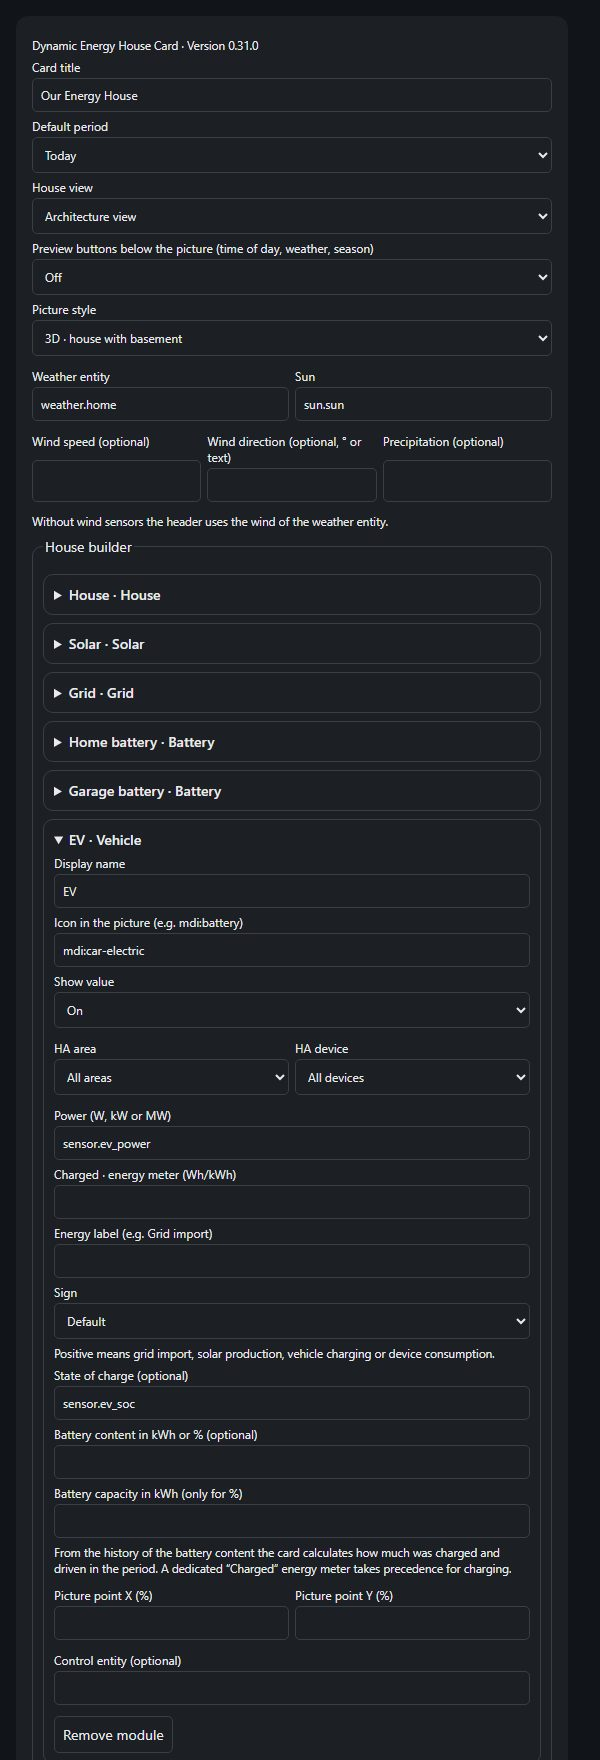
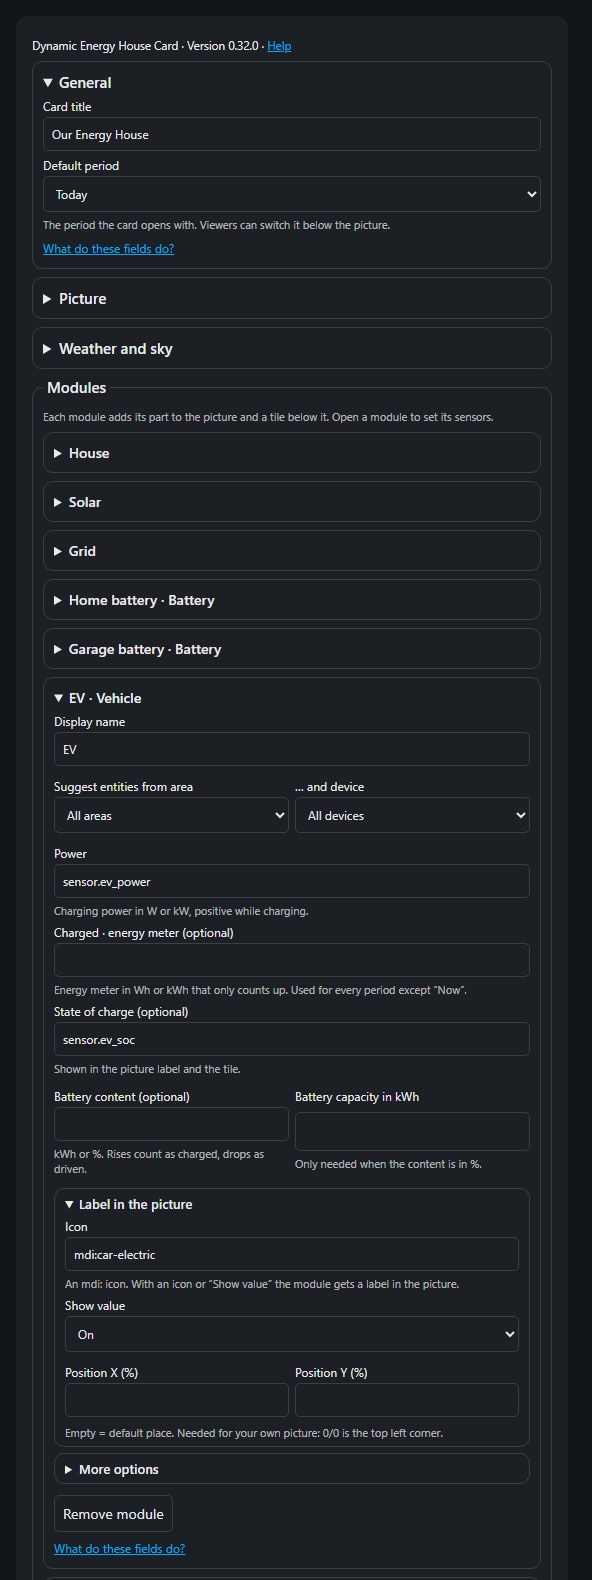
Editor help and clearer configuration (0.32.0)
- Help link in the card editor's menu (documentationURL) and at the top
  of the editor, plus "What do these fields do?" per section
- Hint under every field explaining what to enter and what it does
- Editor grouped into General, Picture, Weather and sky, Modules and
  Routes; label and rarely used options folded per module
- "House view" merged into "Picture style" (schematic floor plan is
  still stored as view: diagram); "Energy label" removed
- Route titles show From → To
- README: configuration reference for every field with its YAML key

Claude-Session: https://claude.ai/code/session_016kjt6bPp7oqnfqhW3oJgZ4

diff --git a/dist/dynamic-energy-house-card.js b/dist/dynamic-energy-house-card.js
@@ -1,5 +1,6 @@
 // Energy House Card · native Home Assistant dashboard component
-const ENERGY_HOUSE_VERSION = "0.31.0";
+const ENERGY_HOUSE_VERSION = "0.32.0";
+const DOCS_URL = "https://github.com/pfalzcraft/dynamic-energy-house-card";
 const TYPES = {house:"House",grid:"Grid",pv:"Solar",battery:"Battery",ev:"Vehicle",water:"Water",room:"Room",climate:"Grid CO₂",device:"Device"};
 const COLORS = {house:"#f4bd86",grid:"#a7bbf0",pv:"#f2ce72",battery:"#80dbc2",ev:"#86cfef",water:"#93d3f5",room:"#d9c6aa",climate:"#c1d2b1",device:"#e7a9d6"};
 const SCENE_ICONS={heatpump:"mdi:heat-pump-outline",washer:"mdi:washing-machine",dryer:"mdi:tumble-dryer"};
@@ -666,7 +667,7 @@ class EnergyHouse extends HTMLElement{
       if(n.kind==="climate")return `<button class="metric" data-node="${esc(n.id)}"><span>${esc(n.name||TYPES[n.kind])}</span><strong>${esc(primaryValue(n,s,history))}</strong><small>${s[n.entity]?.attributes.unit_of_measurement==="%"?"House consumption · "+periodNames[period]:""}</small>${s[n.entity]?.attributes.unit_of_measurement==="%"?`<small>Grid fossil <b>${esc(reading(s[n.entity]))}</b></small>`:""}${n.co2?`<small>CO₂ intensity <b>${esc(reading(s[n.co2]))}</b></small>`:""}</button>`;
       if(n.kind==="battery")return `<button class="metric" data-node="${esc(n.id)}"><span>${esc(n.name||TYPES[n.kind])}</span><strong>${esc(batteryLevel(n,s).label)}</strong><small>State of charge</small>${live?batteryLive(n,s,c.routes):batteryLines(n,history,period)}</button>`;
       const carPeriod=n.kind==="ev"&&!live,detail=branch(n,s).label.split(" · ")[0],primary=carPeriod?energyText(history[evCharged(n)]):primaryValue(n,s,history);
-      const caption=carPeriod?"Charged":n.waterMode==="flow"?`Flow · Ø ${FLOW_MINUTES} min`:waterPeriod(n,s)?periodNames[period]:n.display==="period"?(n.energyLabel?n.energyLabel+" · ":"")+periodNames[period]:detail;
+      const caption=carPeriod?"Charged":n.waterMode==="flow"?`Flow · Ø ${FLOW_MINUTES} min`:waterPeriod(n,s)?periodNames[period]:n.display==="period"?periodNames[period]:detail;
       const exportLine=n.display==="period"&&n.kind==="grid"&&n.exported?`<small>Export · ${periodNames[period]} <b>${energyText(history[n.exported])}</b></small>`:"";
       const own=live?watts(s[n.entity]):history[n.energy],whole=live?houseW:history[HOUSE];
       const known=c.nodes.filter(d=>d.kind==="device").map(d=>live?watts(s[d.entity]):history[d.energy]).filter(Number.isFinite);
@@ -741,61 +742,85 @@ class EnergyHouse extends HTMLElement{
   }
 }
 const editorCss=`
-:host{display:block;color:var(--primary-text-color,#243830);font:14px system-ui}fieldset,details{border:1px solid var(--divider-color,#b2c3b9);border-radius:10px;margin:8px 0;padding:10px}summary{cursor:pointer;font-weight:600}label{display:grid;gap:3px;font-size:12px;margin:6px 0}input,select,button{font:inherit;color:inherit;background:var(--card-background-color,#fff);padding:8px;border-radius:5px;border:1px solid var(--divider-color,#a7b5ac);max-width:100%;box-sizing:border-box}button{cursor:pointer;margin:5px 4px 0 0}.pair{display:grid;grid-template-columns:repeat(auto-fit,minmax(135px,1fr));gap:6px}.pair>label{min-width:0}label>input,label>select{width:100%}input[type=color]{height:40px;padding:3px}small{display:block;margin:5px 0}`;
+:host{display:block;color:var(--primary-text-color,#243830);font:14px system-ui}fieldset,details{border:1px solid var(--divider-color,#b2c3b9);border-radius:10px;margin:8px 0;padding:10px}summary{cursor:pointer;font-weight:600}label{display:grid;gap:3px;font-size:12px;margin:6px 0}input,select,button{font:inherit;color:inherit;background:var(--card-background-color,#fff);padding:8px;border-radius:5px;border:1px solid var(--divider-color,#a7b5ac);max-width:100%;box-sizing:border-box}button{cursor:pointer;margin:5px 4px 0 0}.pair{display:grid;grid-template-columns:repeat(auto-fit,minmax(135px,1fr));gap:6px}.pair>label{min-width:0}label>input,label>select{width:100%}input[type=color]{height:40px;padding:3px}small{display:block;margin:5px 0}.hint{opacity:.72;font-size:11px;margin:2px 0 0}details.section>summary{font-size:15px}details.sub{padding:6px 10px;margin:6px 0}details.sub>summary{font-weight:500;font-size:13px}legend{font-weight:600;font-size:15px;padding:0 4px}a{color:var(--primary-color,#03a9f4)}a.help{display:block;font-size:12px;margin:8px 0 2px}`;
 class HouseEditor extends HTMLElement{
-  constructor(){super();this.root=this.attachShadow({mode:"open"});this.root.addEventListener("change",e=>this.change(e));this.root.addEventListener("click",e=>this.click(e));this.open=new Set();}
+  constructor(){super();this.root=this.attachShadow({mode:"open"});this.root.addEventListener("change",e=>this.change(e));this.root.addEventListener("click",e=>this.click(e));this.open=new Set(["general"]);}
   setConfig(c){if(JSON.stringify(this.c)===JSON.stringify(c))return;this.c=structuredClone({...stub(),...c});this.draw()}
   set hass(h){const first=!this.h;this.h=h;if(first)this.draw()}
   save(){emit(this,"config-changed",{config:structuredClone(this.c)});this.draw()}
   draw(){if(!this.h||!this.c)return;
     const c=this.c,h=this.h;
     this.root.querySelectorAll("details").forEach(d=>d.open?this.open.add(d.dataset.key):this.open.delete(d.dataset.key));
-    const field=(label,key,val,list="")=>`<label>${label}<input data-key="${key}" value="${esc(val)}" ${list?`list="${esc(list)}"`:""}></label>`;
-    const choose=(label,key,val,choices)=>`<label>${label}<select data-key="${key}">${choices.map(([v,l])=>`<option value="${esc(v)}" ${v===val?"selected":""}>${esc(l)}</option>`).join("")}</select></label>`;
+    const hint=text=>`<small class="hint">${text}</small>`;
+    const field=(label,key,val,list="",help="")=>`<label>${label}<input data-key="${key}" value="${esc(val)}" ${list?`list="${esc(list)}"`:""}>${help?hint(help):""}</label>`;
+    const choose=(label,key,val,choices,help="")=>`<label>${label}<select data-key="${key}">${choices.map(([v,l])=>`<option value="${esc(v)}" ${v===val?"selected":""}>${esc(l)}</option>`).join("")}</select>${help?hint(help):""}</label>`;
     const list=(id,values)=>`<datalist id="${esc(id)}">${values.map(v=>`<option value="${esc(v)}"></option>`).join("")}</datalist>`;
-    const details=(key,title,content,attr="")=>`<details data-key="${esc(key)}" ${attr} ${this.open.has(key)?"open":""}><summary>${esc(title)}</summary>${content}</details>`;
+    const details=(key,title,content,attr="",sub=false)=>`<details data-key="${esc(key)}" ${sub?'class="sub"':""} ${attr} ${this.open.has(key)?"open":""}><summary>${esc(title)}</summary>${content}</details>`;
+    const section=(key,title,content)=>details(key,title,content,'class="section"');
+    const helpLink=anchor=>`<a class="help" href="${DOCS_URL}#${anchor}" target="_blank" rel="noreferrer">What do these fields do?</a>`;
     const states=Object.keys(h.states), areas=Object.values(h.areas||{}),devices=Object.values(h.devices||{}), ent=h.entities||{};
     const areaOf=id=>ent[id]?.area_id || h.devices?.[ent[id]?.device_id]?.area_id;
     const colors=obj=>[["positiveColor","Colour for positive power",1],["negativeColor","Colour for negative power",-1]].map(([key,title,sign])=>`<label>${title}<input type="color" data-key="${key}" value="${routeColor(obj,sign)}"></label>`).join("");
     const modules=c.nodes.map((n,i)=>{
       const devs=devices.filter(d=>!n.area||d.area_id===n.area||Object.values(ent).some(e=>e.device_id===d.id&&e.area_id===n.area));
       const ids=states.filter(id=>(!n.area||areaOf(id)===n.area)&&(!n.device||ent[id]?.device_id===n.device));
-      const electric=["pv","house","ev","grid","device"].includes(n.kind);
-      const lid="s"+i;
-      const html=field("Display name","name",n.name)+
-        field("Icon in the picture (e.g. mdi:battery)","icon",n.icon,"pinIcons")+choose("Show value","showState",n.showState??(n.pinText||n.showName==="yes"?"yes":"no"),[["no","Off"],["yes","On"]])+
-        '<div class="pair">'+choose("HA area","area",n.area||"",[["","All areas"],...areas.map(a=>[a.area_id,a.name])])+choose("HA device","device",n.device||"",[["","All devices"],...devs.map(d=>[d.id,d.name_by_user||d.name||d.id])])+'</div>'+
-        (n.kind==="battery"?
-          field("State of charge (%)","soc",n.soc,lid+"pct")+
-          field("Charged · energy meter (Wh/kWh)","charged",n.charged,lid+"kwh")+
-          field("Discharged · energy meter (Wh/kWh)","discharged",n.discharged,lid+"kwh")+
-          "<small>Meters must be in the HA long-term statistics (state_class total or total_increasing).</small>"+
-          list(lid+"pct",ids.filter(id=>h.states[id].attributes.unit_of_measurement==="%"))+
-          list(lid+"kwh",ids.filter(id=>["Wh","kWh","MWh"].includes(h.states[id].attributes.unit_of_measurement))):
-          (n.kind==="house"?"<small>House consumption is calculated: solar + grid import − export + battery discharge − battery charge − vehicle charging. Live battery values come from the routes with a power sensor that start or end at the battery.</small>":n.kind==="climate"?field("Fossil share of grid power (%)","entity",n.entity,lid+"pct")+field("CO₂ intensity (optional)","co2",n.co2,lid)+list(lid+"pct",ids.filter(id=>h.states[id].attributes.unit_of_measurement==="%"))+list(lid,ids)+"<small>Set up the “Electricity Maps” integration in HA (as for the energy dashboard). It provides the fossil share and the CO₂ intensity. The card shows how much of the house consumption in the period was low-carbon. This needs an import meter on the grid.</small>":field(electric?"Power (W, kW or MW)":"Reading","entity",n.entity,lid)+list(lid,ids)))+
-        (electric&&n.kind!=="house"?field(n.kind==="grid"?"Import · energy meter (Wh/kWh)":n.kind==="ev"?"Charged · energy meter (Wh/kWh)":n.kind==="device"?"Consumption · energy meter (Wh/kWh)":"Production · energy meter (Wh/kWh)","energy",n.energy,"energyIds")+(n.kind==="grid"?field("Export · energy meter (Wh/kWh)","exported",n.exported,"energyIds"):"")+field("Energy label (e.g. Grid import)","energyLabel",n.energyLabel):"")+
-        (electric&&n.kind!=="house"?choose("Sign","invert",n.invert?"yes":"no",[["no","Default"],["yes","Invert"]])+"<small>Positive means grid import, solar production, vehicle charging or device consumption.</small>"+(n.kind==="device"?"<small>Devices are part of the house consumption and are not used to calculate it.</small>":""):"")+
-        (n.kind==="ev"?field("State of charge (optional)","soc",n.soc,lid)+field("Battery content in kWh or % (optional)","content",n.content,lid)+field("Battery capacity in kWh (only for %)","capacity",n.capacity)+"<small>From the history of the battery content the card calculates how much was charged and driven in the period. A dedicated “Charged” energy meter takes precedence for charging.</small>":"")+
-        (n.kind==="device"?choose("In the “House with basement” picture","scene",n.scene||"",[["","Label only"],["heatpump","Show as heat pump"],["washer","Washing machine (basement)"],["dryer","Dryer (basement)"]]):"")+
-        (n.kind==="water"?choose("Water display","waterMode",n.waterMode||"",[["","Automatic"],["period","Consumption in the period"],["live","Sensor value"]])+choose("Consumption unit","waterUnit",n.waterUnit||"m³",[["m³","m³"],["L","Litres"]]):"")+
-        (n.kind==="room"?choose("Floor","floor",n.floor||"EG",[["UG","Basement"],["EG","Ground floor"],["OG","Upper floor"],["DG","Attic"],...(n.floor&&!["UG","EG","OG","DG"].includes(n.floor)?[[n.floor,n.floor]]:[])])+
+      const electric=["pv","ev","grid","device"].includes(n.kind);
+      const lid="s"+i,pct=list(lid+"pct",ids.filter(id=>h.states[id].attributes.unit_of_measurement==="%")),kwh=list(lid+"kwh",ids.filter(id=>["Wh","kWh","MWh"].includes(h.states[id].attributes.unit_of_measurement)));
+      const meter=(label,key)=>field(label,key,n[key],lid+"kwh","Energy meter in Wh or kWh that only counts up. Used for every period except “Now”.");
+      const filter=n.kind==="house"?"":'<div class="pair">'+choose("Suggest entities from area","area",n.area||"",[["","All areas"],...areas.map(a=>[a.area_id,a.name])])+choose("… and device","device",n.device||"",[["","All devices"],...devs.map(d=>[d.id,d.name_by_user||d.name||d.id])])+"</div>";
+      const readings=
+        n.kind==="house"?hint("No sensor needed. House consumption = solar + grid import − export + battery discharge − battery charge − vehicle charging. The tile shows how much of it no device explains (“Unassigned”)."):
+        n.kind==="battery"?field("State of charge","soc",n.soc,lid+"pct","Sensor in %.")+meter("Charged · energy meter","charged")+meter("Discharged · energy meter","discharged")+hint("Live charging power comes from the routes that start or end at this battery.")+pct+kwh:
+        n.kind==="climate"?field("Fossil share of grid power","entity",n.entity,lid+"pct","Sensor in % from the “Electricity Maps” integration (as in the HA energy dashboard).")+field("CO₂ intensity (optional)","co2",n.co2,lid,"Shown as an extra line in the tile.")+hint("Shows how much of the house consumption was low-carbon. Needs the import meter on the grid module.")+pct+list(lid,ids):
+        n.kind==="room"?choose("Floor","floor",n.floor||"EG",[["UG","Basement"],["EG","Ground floor"],["OG","Upper floor"],["DG","Attic"],...(n.floor&&!["UG","EG","OG","DG"].includes(n.floor)?[[n.floor,n.floor]]:[])],"Places the room in the picture and in the schematic floor plan.")+
           (n.entities||[]).map((id,j)=>`<div class="pair"><label>Entity or group<input data-ent="${j}" value="${esc(id)}" list="${lid}room"></label><button data-delent="${j}">Remove</button></div>`).join("")+
-          '<button data-addent>+ Entity</button><small>Light and cover groups, lights, switches, climate or sensors. The card shows how many lights are on, the average cover position and temperatures. Tap the room to switch them.</small>'+
+          '<button data-addent>+ Entity</button>'+hint("Lights, covers, switches, climate or sensors, or groups of them. The label shows lights on, average cover position and temperatures. Tapping the room dot switches its lights and covers.")+
           // Groups often have no area, so they are offered in every room.
-          list(lid+"room",states.filter(id=>/^(light|cover|group|switch|fan|climate|sensor|input_boolean)\./.test(id)&&(!n.area||!areaOf(id)||areaOf(id)===n.area))):"")+
-        '<div class="pair">'+field("Picture point X (%)","x",n.x)+field("Picture point Y (%)","y",n.y)+'</div>'+
-        field("Control entity (optional)","control",n.control,"controls")+'<button data-delete>Remove module</button>';
-      return details(n.id,(n.name||TYPES[n.kind])+" · "+TYPES[n.kind],html,`data-index="${i}"`);
+          list(lid+"room",states.filter(id=>/^(light|cover|group|switch|fan|climate|sensor|input_boolean)\./.test(id)&&(!n.area||!areaOf(id)||areaOf(id)===n.area))):
+        n.kind==="water"?field("Water meter or flow sensor","entity",n.entity,lid,"A meter (m³ or L, counting up) gives the consumption per period, a flow sensor the current flow.")+list(lid,ids)+
+          '<div class="pair">'+choose("Show","waterMode",n.waterMode||"",[["","Automatic"],["period","Consumption in the period"],["live","Sensor value"]])+choose("Unit","waterUnit",n.waterUnit||"m³",[["m³","m³"],["L","Litres"]])+"</div>":
+        field("Power","entity",n.entity,lid,{grid:"W or kW, positive for import and negative for export.",pv:"Production in W or kW.",ev:"Charging power in W or kW, positive while charging.",device:"Consumption in W or kW."}[n.kind])+list(lid,ids)+
+          meter({grid:"Import · energy meter",pv:"Production · energy meter",ev:"Charged · energy meter (optional)",device:"Consumption · energy meter (optional)"}[n.kind],"energy")+
+          (n.kind==="grid"?meter("Export · energy meter","exported"):"")+
+          (n.kind==="ev"?field("State of charge (optional)","soc",n.soc,lid,"Shown in the picture label and the tile.")+'<div class="pair">'+field("Battery content (optional)","content",n.content,lid,"kWh or %. Rises count as charged, drops as driven.")+field("Battery capacity in kWh","capacity",n.capacity,"","Only needed when the content is in %.")+"</div>":"")+
+          (n.kind==="device"?choose("Show in the picture","scene",n.scene||"",[["","Label only"],["heatpump","Heat pump"],["washer","Washing machine (basement)"],["dryer","Dryer (basement)"]],"Draws the device in the 3D house with basement.")+hint("Devices are part of the house consumption and are not used to calculate it."):"")+kwh;
+      const label=field("Icon","icon",n.icon,"pinIcons","An mdi: icon. With an icon or “Show value” the module gets a label in the picture.")+
+        choose("Show value","showState",n.showState??(n.pinText||n.showName==="yes"?"yes":"no"),[["no","Off"],["yes","On"]])+
+        '<div class="pair">'+field("Position X (%)","x",n.x)+field("Position Y (%)","y",n.y)+"</div>"+hint("Empty = default place. Needed for your own picture: 0/0 is the top left corner.");
+      const advanced=(electric?choose("Sign","invert",n.invert?"yes":"no",[["no","As measured"],["yes","Invert"]],"Use “Invert” when your sensor reports the opposite direction."):"")+
+        field("Control entity (optional)","control",n.control,"controls","A select, input_select, switch, script or button. Its options appear in the tile; select options are sent only after a second tap.");
+      const html=field("Display name","name",n.name)+filter+readings+
+        details(n.id+":label","Label in the picture",label,"",true)+details(n.id+":more","More options",advanced,"",true)+
+        '<button data-delete>Remove module</button>'+helpLink(TYPES[n.kind].toLowerCase().replace("₂","2").replace(/ /g,"-")+"-module");
+      return details(n.id,!n.name||n.name===TYPES[n.kind]?TYPES[n.kind]:n.name+" · "+TYPES[n.kind],html,`data-index="${i}"`);
     }).join("");
     const names=c.nodes.map(n=>[n.id,n.name||TYPES[n.kind]]);
-    const routes=c.routes.map((r,i)=>details("r"+i,"Route "+(i+1),choose("From","from",r.from,names)+choose("To","to",r.to,names)+field("Power From → To","entity",r.entity,"powerIds")+field("Power To → From (optional)","reverse",r.reverse,"powerIds")+field("Height of the horizontal line Y (%, empty = middle)","y",r.y)+"<small>With one sensor the route flows in one direction only. With both sensors it shows charging or discharging, whichever value is larger.</small>"+colors(r)+'<button data-delroute>Remove route</button>',`data-route="${i}"`)).join("");
-    this.root.innerHTML=`<style>${editorCss}</style><small>Dynamic Energy House Card · Version ${ENERGY_HOUSE_VERSION}</small>${field("Card title","title",c.title)}${choose("Default period","period",c.period||"day",Object.entries(periodNames).filter(([id])=>id!=="custom"))}${list("energyIds",states.filter(id=>["Wh","kWh","MWh"].includes(h.states[id].attributes.unit_of_measurement)))}${list("pinIcons",["mdi:battery","mdi:solar-power","mdi:home","mdi:car-electric","mdi:water","mdi:thermometer"])}${choose("House view","view",c.view||"photo",[["photo","Architecture view"],["diagram","Schematic floor plan"]])}${choose("Preview buttons below the picture (time of day, weather, season)","preview",c.preview||"no",[["no","Off"],["yes","On"]])}${choose("Picture style","look",c.look||"cellar",[["photo","3D rendering"],["cellar","3D · house with basement"],["blueprint","Blueprint · gable roof with basement"],["flat","Blueprint · flat roof with basement"],["custom","Own picture"]])}${c.look==="custom"?field("Picture URL (e.g. /local/house.webp, 3:2 format)","image",c.image)+"<small>Place modules with picture point X/Y. Weather effects cover the whole picture.</small>":""}<div class="pair">${field("Weather entity","weather",c.weather,"weatherIds")}${field("Sun","sun",c.sun,"sunIds")}</div><div class="pair">${field("Wind speed (optional)","windSpeed",c.windSpeed,"sensorIds")}${field("Wind direction (optional, ° or text)","windDirection",c.windDirection,"sensorIds")}${field("Precipitation (optional)","precipitation",c.precipitation,"sensorIds")}</div><small>Without wind sensors the header uses the wind of the weather entity.</small>${list("sensorIds",states.filter(id=>id.startsWith("sensor.")))}<fieldset><legend>House builder</legend>${modules}<select aria-label="New module" data-kind>${Object.entries(TYPES).filter(([k])=>!["house","grid","pv"].includes(k)||!c.nodes.some(n=>n.kind===k)).map(([k,v])=>`<option value="${k}">${v}</option>`).join("")}</select><button data-add>Add module</button></fieldset><fieldset><legend>Direct power flows</legend>${routes}<button data-addroute ${names.length<2?"disabled":""}>Add route</button></fieldset>${list("sunIds",states.filter(id=>id.startsWith("sun.")))}${list("weatherIds",states.filter(id=>id.startsWith("weather.")))}${list("powerIds",states.filter(id=>["W","kW","MW"].includes(h.states[id].attributes.unit_of_measurement)))}${list("controls",states.filter(id=>/^(select|input_select|switch|script|button)\./.test(id)))}`;
+    const routes=c.routes.map((r,i)=>details("r"+i,`Route ${i+1}: ${names.find(([id])=>id===r.from)?.[1]||"?"} → ${names.find(([id])=>id===r.to)?.[1]||"?"}`,
+      '<div class="pair">'+choose("From","from",r.from,names)+choose("To","to",r.to,names)+"</div>"+
+      field("Power From → To","entity",r.entity,"powerIds","W or kW. Negative values reverse the arrow.")+
+      field("Power To → From (optional)","reverse",r.reverse,"powerIds","For two separate sensors, e.g. battery charging and discharging. The larger value sets the direction.")+
+      field("Height of the line (Y %)","y",r.y,"","Where the horizontal part runs. Empty = middle.")+
+      '<div class="pair">'+colors(r)+"</div>"+'<button data-delroute>Remove route</button>',`data-route="${i}"`)).join("");
+    const look=c.view==="diagram"?"diagram":c.look||"cellar";
+    this.root.innerHTML=`<style>${editorCss}</style>
+<small>Dynamic Energy House Card · Version ${ENERGY_HOUSE_VERSION} · <a href="${DOCS_URL}#configuration-reference" target="_blank" rel="noreferrer">Help</a></small>
+${section("general","General",field("Card title","title",c.title)+choose("Default period","period",c.period||"day",Object.entries(periodNames).filter(([id])=>id!=="custom"),"The period the card opens with. Viewers can switch it below the picture.")+helpLink("card-options"),true)}
+${section("picture","Picture",choose("Picture style","look",look,[["cellar","3D · house with basement"],["photo","3D rendering"],["blueprint","Blueprint · gable roof"],["flat","Blueprint · flat roof"],["diagram","Schematic floor plan"],["custom","Own picture"]],"The 3D house with basement changes with the seasons and shows heat pump, washer and dryer. The floor plan arranges the rooms by floor.")+
+  (look==="custom"?field("Picture URL","image",c.image,"","e.g. /local/house.webp in 3:2 format. Place modules with Position X/Y."):"")+
+  choose("Preview buttons","preview",c.preview||"no",[["no","Off"],["yes","On"]],"Buttons below the picture to try time of day, weather and season.")+helpLink("picture-options"))}
+${section("sky","Weather and sky",'<div class="pair">'+field("Weather entity","weather",c.weather,"weatherIds","Clouds, rain, snow, fog, thunderstorms and wind.")+field("Sun","sun",c.sun,"sunIds","Day and night. Usually sun.sun.")+"</div>"+
+  '<div class="pair">'+field("Wind speed (optional)","windSpeed",c.windSpeed,"sensorIds")+field("Wind direction (optional)","windDirection",c.windDirection,"sensorIds")+field("Precipitation (optional)","precipitation",c.precipitation,"sensorIds")+"</div>"+
+  hint("Only needed when you have own sensors; otherwise the weather entity is used.")+helpLink("weather-and-sky-options"))}
+<fieldset><legend>Modules</legend>${hint("Each module adds its part to the picture and a tile below it. Open a module to set its sensors.")}${modules}<select aria-label="New module" data-kind>${Object.entries(TYPES).filter(([k])=>!["house","grid","pv"].includes(k)||!c.nodes.some(n=>n.kind===k)).map(([k,v])=>`<option value="${k}">${v}</option>`).join("")}</select><button data-add>Add module</button></fieldset>
+<fieldset><legend>Routes</legend>${hint("Lines the power runs along between two modules, with sensor, colours and height.")}${routes}<button data-addroute ${names.length<2?"disabled":""}>Add route</button>${helpLink("route-fields")}</fieldset>
+${list("energyIds",states.filter(id=>["Wh","kWh","MWh"].includes(h.states[id].attributes.unit_of_measurement)))}${list("pinIcons",["mdi:battery","mdi:solar-power","mdi:home","mdi:car-electric","mdi:water","mdi:thermometer","mdi:heat-pump-outline","mdi:washing-machine"])}${list("sensorIds",states.filter(id=>id.startsWith("sensor.")))}${list("sunIds",states.filter(id=>id.startsWith("sun.")))}${list("weatherIds",states.filter(id=>id.startsWith("weather.")))}${list("powerIds",states.filter(id=>["W","kW","MW"].includes(h.states[id].attributes.unit_of_measurement)))}${list("controls",states.filter(id=>/^(select|input_select|switch|script|button)\./.test(id)))}`;
   }
   change(e){const t=e.target,k=t.dataset.key;
     if(t.dataset.ent){const n=this.c.nodes[+t.closest("[data-index]").dataset.index];n.entities[+t.dataset.ent]=t.value.trim();this.save();return;}
     if(!k)return;
     const item=t.closest("[data-index]"),route=t.closest("[data-route]");
     const obj=item?this.c.nodes[+item.dataset.index]:route?this.c.routes[+route.dataset.route]:this.c;
+    if(k==="look"&&obj===this.c){if(t.value==="diagram")obj.view="diagram";else{delete obj.view;obj.look=t.value}this.save();return;}
     if(k==="area" && obj.area!==t.value)obj.device="";
     obj[k]=k==="invert"?t.value==="yes":t.value.trim();this.save();}
   click(e){const t=e.target;if(!t.matches("button"))return;
@@ -826,5 +851,5 @@ if(!customElements.get("dynamic-energy-house-card")){
   // Dashboards set up before the rename (type: custom:energy-house-card) keep working.
   if(!customElements.get("energy-house-card"))customElements.define("energy-house-card",class extends EnergyHouse{});
   window.customCards=window.customCards||[];
-  window.customCards.push({type:"dynamic-energy-house-card",name:"Dynamic Energy House",description:"Interactive energy house with rooms, weather and power flows."});
+  window.customCards.push({type:"dynamic-energy-house-card",name:"Dynamic Energy House",description:"Interactive energy house with rooms, weather and power flows.",documentationURL:DOCS_URL});
 }

diff --git a/README.md b/README.md
@@ -32,7 +32,7 @@ The weather entity drives clouds, rain, snow, hail, thunderstorms, fog and wind.
 |---|---|
 | ![Winter night](https://raw.githubusercontent.com/pfalzcraft/dynamic-energy-house-card/main/docs/night.jpg) | ![Blueprint](https://raw.githubusercontent.com/pfalzcraft/dynamic-energy-house-card/main/docs/blueprint.jpg) |
 
-Picture styles: **3D · house with basement** (default, with seasons), **3D rendering**, **Blueprint · gable roof with basement**, **Blueprint · flat roof with basement**, or **Own picture** from a URL such as `/local/house.webp` (3:2 format, place modules with picture point X/Y).
+Picture styles: **3D · house with basement** (default, with seasons), **3D rendering**, **Blueprint · gable roof**, **Blueprint · flat roof**, **Schematic floor plan**, or **Own picture** from a URL such as `/local/house.webp` (3:2 format, place modules with Position X/Y). See [Picture options](#picture-options).
 
 ## Devices, readings and a check sum
 
@@ -61,35 +61,150 @@ Without the `.webp` pictures next to the card file, the 3D house always shows th
 
 ## Building your house
 
-In the card editor, first give the grid connection its power sensor. The house consumption is calculated, not measured. Then use **Add module** for solar, any number of batteries, vehicles, devices, rooms, water and grid CO₂. HA area and device narrow down the entity suggestions; entity IDs can also be typed in. The configuration belongs to the card and does not change anything in Home Assistant.
+Open the card editor and work from top to bottom:
 
-| Module | Reading | Also |
+1. **Modules → Grid**: give it the grid power sensor. That alone already draws the house.
+2. **Add module** for solar, batteries, vehicles, devices, water, rooms and grid CO₂. Each module adds its part to the picture and a tile below it.
+3. **Routes**: connect modules with lines that show the power flowing between them.
+
+The editor shows a short hint under every field. **Help** at the top of the editor and in the card editor's menu, and **What do these fields do?** in every section, lead to the reference below. The configuration belongs to the card and does not change anything in Home Assistant.
+
+## Configuration reference
+
+All fields can be set in the editor. The YAML key is given for people who prefer the code editor.
+
+### Card options
+
+| Field | YAML | What it does |
 |---|---|---|
-| House | No sensor. Calculated: solar + grid import − export + battery discharge − battery charge − vehicle charging | Live from the power sensors, for a period from the energy meters. A battery's live power is the sum of its routes with a power sensor. Missing values are left out and named under “No value”. The tile shows how much of the consumption no device explains (“Unassigned”). |
-| Grid | Two-way power, positive for import; energy meters for import and export | Sign can be inverted. The picture label shows import with `mdi:transmission-tower-export`; for a period the export (`mdi:transmission-tower-import`) appears below it once something was fed in. |
-| Solar | Production power | One solar module. |
-| Battery | State of charge in %, energy meters “Charged” and “Discharged” | Optional control entity for the operating mode. |
-| Vehicle | Charging power, positive while charging; optional “Charged” energy meter; optional battery content (kWh, or % plus battery capacity) | From the battery content history the card calculates energy charged and driven in the period (rises count as charged, drops as driven, including standby). A dedicated charging meter takes precedence. With a state of charge, the picture label shows the %. |
-| Device | Consumption power, optional energy meter (e.g. Shelly) | Any number. Part of the house consumption, not used to calculate it. Shown as heat pump, washing machine or dryer in the basement if you choose so. |
-| Water | Meter reading (m³/L) or flow | Meters are recognised by `state_class` (total / total_increasing) or unit: consumption for a period, flow in L/min (average of the last 10 minutes) for “Now”. |
-| Room | Any room sensor | Floor, HA area and any number of entities or groups. |
-| Grid CO₂ | Fossil share of grid power in % (“Electricity Maps” integration, as in the HA energy dashboard), optional CO₂ intensity | Shows how much of the house consumption was low-carbon. Needs the grid import meter. Uses the current fossil share, not hourly values. |
+| Card title | `title` | Heading of the card. |
+| Default period | `period` | `now`, `day`, `week`, `month` or `year`. The period the card opens with; viewers can switch it below the picture. |
 
-Separate import and export sensors can be combined with an HA template sensor (import minus export, same unit; return `unavailable` if an input is missing). Energy meters (kWh) are not momentary power. Below 5 W the animation stops while the value stays visible.
+### Picture options
 
-### How routes work
+| Field | YAML | What it does |
+|---|---|---|
+| Picture style | `look` | `cellar` 3D house with basement (default, changes with the seasons, shows heat pump, washer and dryer), `photo` 3D rendering, `blueprint` gable roof, `flat` flat roof, `custom` own picture. **Schematic floor plan** is stored as `view: diagram` and arranges the rooms by floor (basement, ground floor, upper floor, attic), four per row. |
+| Picture URL | `image` | Only for the own picture: e.g. `/local/house.webp` in 3:2 format. Place modules with Position X/Y. |
+| Preview buttons | `preview` | `yes` shows buttons below the picture to try time of day, weather and season. Default `no`. |
 
-Each route has a power field per direction (From → To, and optionally To → From). With one sensor it flows one way; with both, the larger value sets the direction, for example charging or discharging a battery. Negative power also reverses the arrow. At 0 W or without a reading the line stays still. Routes run at right angles: vertically out of the module, horizontally at the height you set (Y in %, empty = middle), vertically into the target. Routes may share lines. The card does not split surplus across routes by calculation.
+### Weather and sky options
+
+| Field | YAML | What it does |
+|---|---|---|
+| Weather entity | `weather` | Clouds, rain, snow, hail, thunderstorms, fog and wind. |
+| Sun | `sun` | Usually `sun.sun`. Day, night and dusk; sun and moon positions use your HA location. |
+| Wind speed, wind direction, precipitation | `windSpeed`, `windDirection`, `precipitation` | Optional own sensors. Without them the weather entity's values are used. Direction in ° or as text. |
+
+### Common module fields
+
+Every module is an entry in `nodes` with a unique `id` and a `kind`.
+
+| Field | YAML | What it does |
+|---|---|---|
+| Display name | `name` | Name in the picture label and the tile. |
+| Suggest entities from area / device | `area`, `device` | Only narrows the entity suggestions in the editor. Entity IDs can always be typed in. |
+| **Label in the picture** → Icon | `icon` | An `mdi:` icon. With an icon or *Show value* the module gets a label in the picture. |
+| Show value | `showState` | `yes` shows the current value in the label. |
+| Position X / Y (%) | `x`, `y` | Moves the module's point in the picture. Empty = default place. Needed for an own picture; 0/0 is the top left corner. |
+| **More options** → Sign | `invert` | `true` when your sensor reports the opposite direction (grid, solar, vehicle, device). |
+| Control entity | `control` | Optional `select`, `input_select`, `switch`, `script` or `button`. Its options appear in the tile. A select option is only sent after a second tap; the card never writes set points by itself. |
+
+Energy meters must count up (`state_class` `total` or `total_increasing`, Wh or kWh) and be in the HA long-term statistics. They are used for every period except **Now**; a module without a meter shows its momentary power there too.
+
+### House module
+
+No sensor. House consumption = solar + grid import − export + battery discharge − battery charge − vehicle charging. Live from the power sensors, for a period from the energy meters. Missing values are left out and named under “No value”. The tile shows how much of the consumption no device explains (“Unassigned”); a negative balance for a period means a meter does not fit.
+
+### Grid module
+
+| Field | YAML | What it does |
+|---|---|---|
+| Power | `entity` | W or kW, positive for import, negative for export. Separate import and export sensors can be combined with a template sensor (import minus export). |
+| Import · energy meter | `energy` | Grid import per period. Also needed by the Grid CO₂ module. |
+| Export · energy meter | `exported` | Export per period, shown below the import. |
+
+### Solar module
+
+| Field | YAML | What it does |
+|---|---|---|
+| Power | `entity` | Production in W or kW. |
+| Production · energy meter | `energy` | Production per period. |
+
+### Battery module
+
+Any number of batteries.
+
+| Field | YAML | What it does |
+|---|---|---|
+| State of charge | `soc` | Sensor in %. |
+| Charged / Discharged · energy meter | `charged`, `discharged` | Energy per period. |
+
+The live charging power is the sum of the routes with a power sensor that start or end at the battery.
+
+### Vehicle module
+
+| Field | YAML | What it does |
+|---|---|---|
+| Power | `entity` | Charging power in W or kW, positive while charging. |
+| Charged · energy meter | `energy` | Optional. Takes precedence over the battery content for “charged”. |
+| State of charge | `soc` | Optional. Shown in the picture label and the tile. |
+| Battery content | `content` | Optional, kWh or %. From its history the card calculates energy charged and driven in the period: rises count as charged, drops as driven (including standby). |
+| Battery capacity in kWh | `capacity` | Only when the battery content is in %. |
+
+### Device module
+
+Any number, e.g. heat pump, washer, dryer, fridge or office. Devices are part of the house consumption and are not used to calculate it.
+
+| Field | YAML | What it does |
+|---|---|---|
+| Power | `entity` | Consumption in W or kW. |
+| Consumption · energy meter | `energy` | Optional, e.g. from a Shelly. |
+| Show in the picture | `scene` | `heatpump`, `washer` or `dryer` draws the device in the 3D house with basement. Empty = label only. |
+
+### Water module
+
+| Field | YAML | What it does |
+|---|---|---|
+| Water meter or flow sensor | `entity` | A meter (m³ or L, counting up) gives the consumption per period; a flow sensor the current flow (average of the last 10 minutes for “Now”). |
+| Show | `waterMode` | Empty = automatic, `period` consumption in the period, `live` sensor value. |
+| Unit | `waterUnit` | `m³` or `L`. |
+
+### Room module
+
+| Field | YAML | What it does |
+|---|---|---|
+| Floor | `floor` | `UG` basement, `EG` ground floor, `OG` upper floor, `DG` attic. Places the room in the picture and the floor plan. |
+| Entity or group | `entities` | Lights, covers, switches, climate or sensors, or groups of them. Each gets a row in the label (lights on, average cover position, temperature). Tap a row to open its HA dialog; tap the room dot to switch its lights and covers. |
+
+### Grid CO2 module
+
+| Field | YAML | What it does |
+|---|---|---|
+| Fossil share of grid power | `entity` | Sensor in % from the “Electricity Maps” integration (as in the HA energy dashboard). |
+| CO₂ intensity | `co2` | Optional extra line in the tile. |
+
+Shows how much of the house consumption was low-carbon. Needs the import meter on the grid module and uses the current fossil share, not hourly values.
+
+### Route fields
+
+Routes (`routes`) are the lines the power runs along.
+
+| Field | YAML | What it does |
+|---|---|---|
+| From / To | `from`, `to` | The module IDs the line connects. |
+| Power From → To | `entity` | W or kW. Negative values reverse the arrow. |
+| Power To → From | `reverse` | Optional second sensor, e.g. battery charging and discharging. The larger value sets the direction. |
+| Height of the line (Y %) | `y` | Where the horizontal part runs. Empty = middle. |
+| Colour for positive / negative power | `positiveColor`, `negativeColor` | Line colours per direction. |
+
+Routes run at right angles: vertically out of the module, horizontally at the height you set, vertically into the target. They may share lines. At 0 W or without a reading the line stays still; below 5 W the animation stops while the value stays visible. The card does not split surplus across routes by calculation.
 
 ### Periods and controls
 
-Choose Now, Today, Week, Month, Year or Range. “Now” shows momentary power everywhere; every other period shows the energy from the energy meters, including the running hour. A module without an energy meter shows its momentary power there too. Range offers From/To dates (whole days in the HA time zone); the default is the last seven days. If the house balance for a period is negative, the house tile says so: then a meter does not fit.
+Choose Now, Today, Week, Month, Year or Range below the picture. “Now” shows momentary power; every other period shows the energy from the energy meters, including the running hour. Range offers From/To dates (whole days in the HA time zone); the default is the last seven days.
 
-Tap a module to open its HA dialog. With a control entity, a selection opens below the readings; for `select` and `input_select` it reads the real options from HA and only sends `select_option` after a second tap. The card never writes set points by itself.
-
-The **Preview buttons** option in the editor shows buttons below the picture to try time of day, weather and season. Background, tiles, buttons and text follow your HA theme (light or dark); only the value labels in the picture stay dark so they remain readable on the photo. Animations respect reduced motion.
-
-The schematic floor plan (House view → Schematic floor plan) builds floors from the rooms' floor setting (basement, ground floor, upper floor, attic), four rooms per row.
+Tap a module to open its HA dialog. Background, tiles, buttons and text follow your HA theme (light or dark); only the value labels in the picture stay dark so they remain readable on the photo. Animations respect reduced motion.
 
 ## Repository
 
